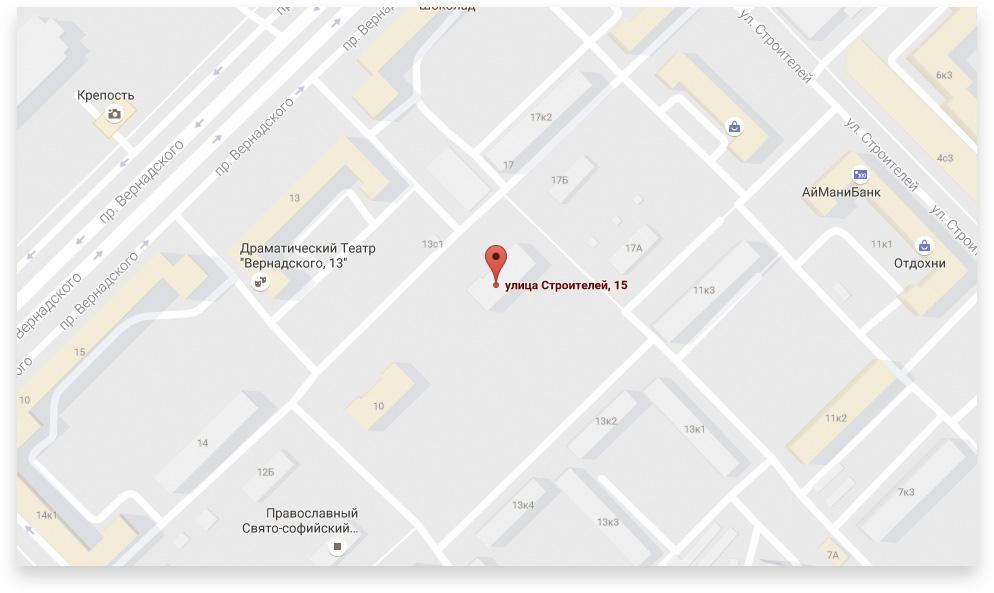
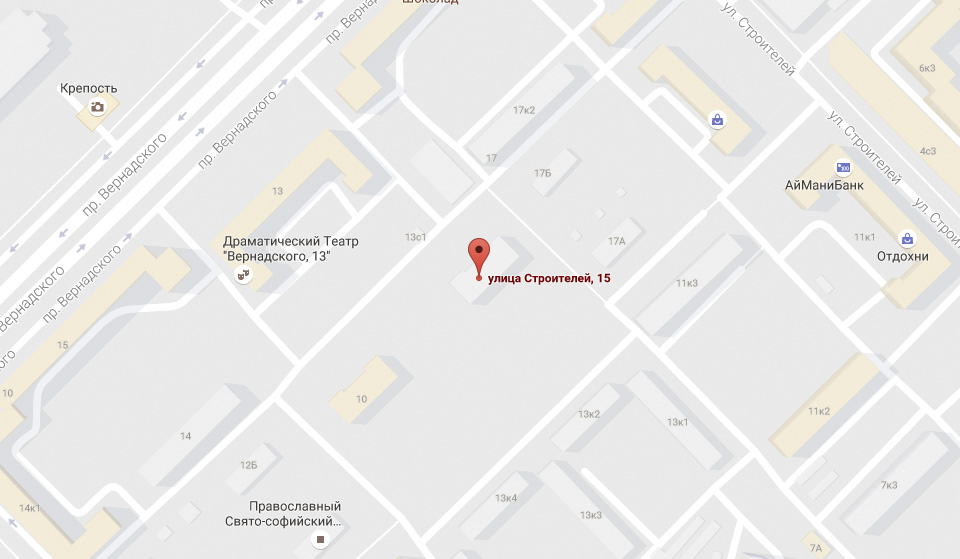
Добавлена стилизация модальных окон, google maps, мелкие правки

diff --git a/sass/blocks/modal.scss b/sass/blocks/modal.scss
@@ -1,3 +1,215 @@
+@keyframes bounce {
+  0% {
+    transform: translate(-50%, -1000%);
+  }
+
+  70% {
+    transform: translate(-50%, -45%);
+  }
+
+  90% {
+    transform: translate(-50%, -53%);
+  }
+
+  100% {
+    transform: translate(-50%, -50%);
+  }
+}
+
 .modal {
+  position: fixed;
+  top: 50%;
+  left: 50%;
+  z-index: 500;
+
   display: none;
+  margin: 0 auto;
+
+  transform: translate(-50%, -50%);
+
+  &--write-us {
+    width: 960px;
+    height: 553px;
+    padding: 96px 100px 80px;
+
+    background-color: $white;
+    box-shadow: -40px 0 40px -40px rgba($black, 0.75),
+    40px 0 40px -40px rgba($black, 0.75),
+    0 10px 20px 0 rgba($black, 0.2);
+  }
+
+  &--map {
+    width: 960px;
+    height: 559px;
+
+    box-shadow: 0 10px 20px 0 rgba($black, 0.2);
+  }
+
+  &--show {
+    display: block;
+
+    animation: bounce 0.6s;
+  }
+}
+
+.modal__close-btn {
+  position: absolute;
+  top: 22px;
+  right: 22px;
+
+  width: 55px;
+  height: 55px;
+
+  background-color: rgba($bg-yellow, 0.5);
+  border: none;
+  border-radius: 50%;
+  outline: none;
+  cursor: pointer;
+
+  transition: background-color 0.1s linear;
+
+  &:hover,
+  &:focus {
+    background-color: rgba($bg-yellow, 1);
+  }
+
+  &:active {
+    background-color: rgba($bg-yellow, 0.3);
+  }
+
+  &::before,
+  &::after {
+    content: "";
+    position: absolute;
+    top: 50%;
+    left: 50%;
+
+    width: 30px;
+    height: 2px;
+
+    background-color: rgba($white, 0.5);
+    transform: translate(-50%, -50%) rotate(45deg);
+
+    transition: background-color 0.1s linear;
+  }
+
+  &::after {
+    transform: translate(-50%, -50%) rotate(-45deg);
+  }
+
+  &:hover::before,
+  &:hover::after,
+  &:focus::before,
+  &:focus::after {
+    background-color: rgba($white, 1);
+  }
+
+  &:active::before,
+  &:active::after {
+    background-color: rgba($white, 0.3);
+  }
+}
+
+.modal iframe {
+  width: 960px;
+  height: 559px;
+}
+
+.modal__form {
+  display: flex;
+  flex-wrap: wrap;
+  justify-content: space-between;
+  align-items: baseline;
+}
+
+.modal__label {
+  width: 360px;
+  margin-bottom: 36px;
+
+  font-weight: 800;
+  font-size: 18px;
+  line-height: 18px;
+  font-family: $font-gilroy;
+  color: $black;
+
+  cursor: pointer;
+
+  -webkit-tap-highlight-color: transparent;
+
+  &--textarea {
+    width: 100%;
+    margin-bottom: 0;
+  }
+}
+
+.modal__input {
+  box-sizing: border-box;
+  width: 100%;
+  margin-top: 11px;
+  padding: 11px 17px 14px 17px;
+
+  font-size: 14px;
+  line-height: 18px;
+  font-family: "OpenSans", "Arial", sans-serif;
+
+  background-color: #f2f2f2;
+  border: none;
+  border: 3px solid transparent;
+  outline: none;
+
+  transition: background-color 0.1s linear, border-color 0.1s linear;
+
+  &:hover {
+    background-color: #eaeaea;
+  }
+
+  &:focus {
+    background-color: $white;
+    border-color: $bg-yellow;
+  }
+
+  // &:invalid {
+  //   background-color: $bg-invalid;
+  //   border-color: transparent;
+  // }
+
+  &::-webkit-input-placeholder {
+    font-size: 14px;
+    line-height: 18px;
+    font-family: "OpenSans", "Arial", sans-serif;
+    color: rgba($main-font-color, 0.4);
+  }
+
+  &::-moz-placeholder {
+    font-size: 14px;
+    line-height: 18px;
+    font-family: "OpenSans", "Arial", sans-serif;
+    color: rgba($main-font-color, 0.4);
+  }
+
+  &:-ms-placeholder {
+    font-size: 14px;
+    line-height: 18px;
+    font-family: "OpenSans", "Arial", sans-serif;
+    color: rgba($main-font-color, 0.4);
+  }
+
+  &--textarea {
+    min-height: 156px;
+    margin-top: 9px;
+    padding: 13px 17px 15px 17px;
+
+    resize: none;
+  }
+}
+
+.modal__submit-btn {
+  width: 200px;
+  margin-top: 47px;
+
+  font-size: 18px;
+  letter-spacing: 4px;
+
+  background-color: transparent;
+  border: none;
 }

diff --git a/index.html b/index.html
@@ -381,26 +381,30 @@
       <form class="modal__form" action="#" method="POST">
         <label class="modal__label" for="name">
           <span>Ваше имя:</span>
-          <input class="modal__input" type="text" id="name" placeholder="Представьтесь, пожалуйста">
+          <input class="modal__input" type="text" id="name" placeholder="Представьтесь, пожалуйста" required>
         </label>
         <label class="modal__label" for="email">
           <span>Ваш e-mail:</span>
-          <input class="modal__input" type="email" id="email" placeholder="Представьтесь, пожалуйста">
+          <input class="modal__input" type="email" id="email" placeholder="Для отправки ответа" required>
         </label>
-        <label class="modal__label" for="comment">
+        <label class="modal__label  modal__label--textarea" for="comment">
           <span>Текст письма:</span>
-          <input class="modal__input" type="text" id="comment" placeholder="В свободной форме">
+          <textarea class="modal__input  modal__input--textarea" id="comment" placeholder="В свободной форме" required></textarea>
         </label>
-        <button class="modal__btn  btn" type="submit"></button>
-        <button class="modal__close"><span class="visually-hidden">Закрыть</span></button>
+        <button class="modal__submit-btn  btn" type="submit">Отправить</button>
+        <button class="modal__close-btn" type="button"><span class="visually-hidden">Закрыть</span></button>
       </form>
     </section>
-    <section class="modal  modal-map">
+    <section class="modal  modal--map">
       <h2 class="visually-hidden">Схема проезда</h2>
-      <picture>
-        <source type="image/webp" srcset="img/map-big.webp">
-        <img src="img/map-big.jpg" width="960" height="559" alt="Схема проезда">
-      </picture>
+      <div>
+        <iframe src="https://www.google.com/maps/embed?pb=!1m18!1m12!1m3!1d2249.1125485500984!2d37.527777543827675!3d55.687030986236735!2m3!1f0!2f0!3f0!3m2!1i1024!2i768!4f13.1!3m3!1m2!1s0x46b54cf65f5c8955%3A0x694710ccd55501e!2z0YPQuy4g0KHRgtGA0L7QuNGC0LXQu9C10LksIDE1LCDQnNC-0YHQutCy0LAsIDExOTMxMQ!5e0!3m2!1sru!2sru!4v1509891541145" frameborder="0" style="border:0" allowfullscreen></iframe>
+        <!-- <picture>
+          <source type="image/webp" srcset="img/map-big.webp">
+          <img src="img/map-big.jpg" width="960" height="559" alt="Схема проезда">
+        </picture> -->
+      </div>
+      <button class="modal__close-btn" type="button"><span class="visually-hidden">Закрыть</span></button>
     </section>
     <script src="js/script.js"></script>
     <script src="js/jquery-3.2.1.min.js"></script>

diff --git a/js/script.js b/js/script.js
@@ -1,10 +1,12 @@
 var searchForm = document.querySelector('.user-nav__search-form');
 var searchInput = document.querySelector('.user-nav__search-input');
 var addCatalog = document.querySelector('.main-nav__add-list');
-
-if (searchInput != null) {
-  searchInput.classList.remove('user-nav__search-input--nojs');
-}
+var modal = document.querySelectorAll('.modal');
+var modalWriteUs = document.querySelector('.modal--write-us');
+var modalMap = document.querySelector('.modal--map');
+var writeUsOpenBtn = document.querySelector('.contacts__btn');
+var mapOpenBtn = document.querySelector('.contacts__map');
+var modalCloseBtn = document.querySelectorAll('.modal__close-btn');
 
 function onInputFocus() {
   searchForm.classList.add('user-nav__search-form--focus');
@@ -12,6 +14,18 @@ function onInputFocus() {
 
 function onInputBlur() {
   searchForm.classList.remove('user-nav__search-form--focus');
+}
+
+function closeWriteUs() {
+  modalWriteUs.classList.remove('modal--show');
+}
+
+function closeMap() {
+  modalMap.classList.remove('modal--show');
+}
+
+if (searchInput != null) {
+  searchInput.classList.remove('user-nav__search-input--nojs');
 }
 
 if (searchInput != null) {
@@ -27,4 +41,28 @@ if (addCatalog != null) {
   addCatalog.addEventListener('blur', function(e) {
     this.classList.toggle('main-nav__add-list--show');
   }, true);
+}
+
+if (modalWriteUs != null) {
+  writeUsOpenBtn.addEventListener('click', function(e) {
+    e.preventDefault();
+    modalWriteUs.classList.add('modal--show');
+  });
+}
+
+if (modalMap != null) {
+  mapOpenBtn.addEventListener('click', function(e) {
+    e.preventDefault();
+    modalMap.classList.add('modal--show');
+  });
+}
+
+if (modal != null) {
+  for (var i = 0; i < modal.length; i++) {
+    modal[i].addEventListener('click', function(e) {
+      if (e.target.classList.contains('modal__close-btn')) {
+        this.classList.remove('modal--show');
+      }
+    })
+  }
 }

diff --git a/sass/style.scss b/sass/style.scss
@@ -18,3 +18,4 @@
 @import "blocks/contacts.scss";
 @import "blocks/page-footer.scss";
 @import "blocks/socials-list.scss";
+@import "blocks/modal.scss";

diff --git a/sass/blocks/services.scss b/sass/blocks/services.scss
@@ -1,4 +1,5 @@
 .services {
+  min-width: 1200px;
   margin-bottom: 20px;
   padding-bottom: 69px;
 

diff --git a/sass/blocks/page-footer.scss b/sass/blocks/page-footer.scss
@@ -1,4 +1,6 @@
 .page-footer {
+  min-width: 1200px;
+
   background-color: $bg-footer;
 }
 
